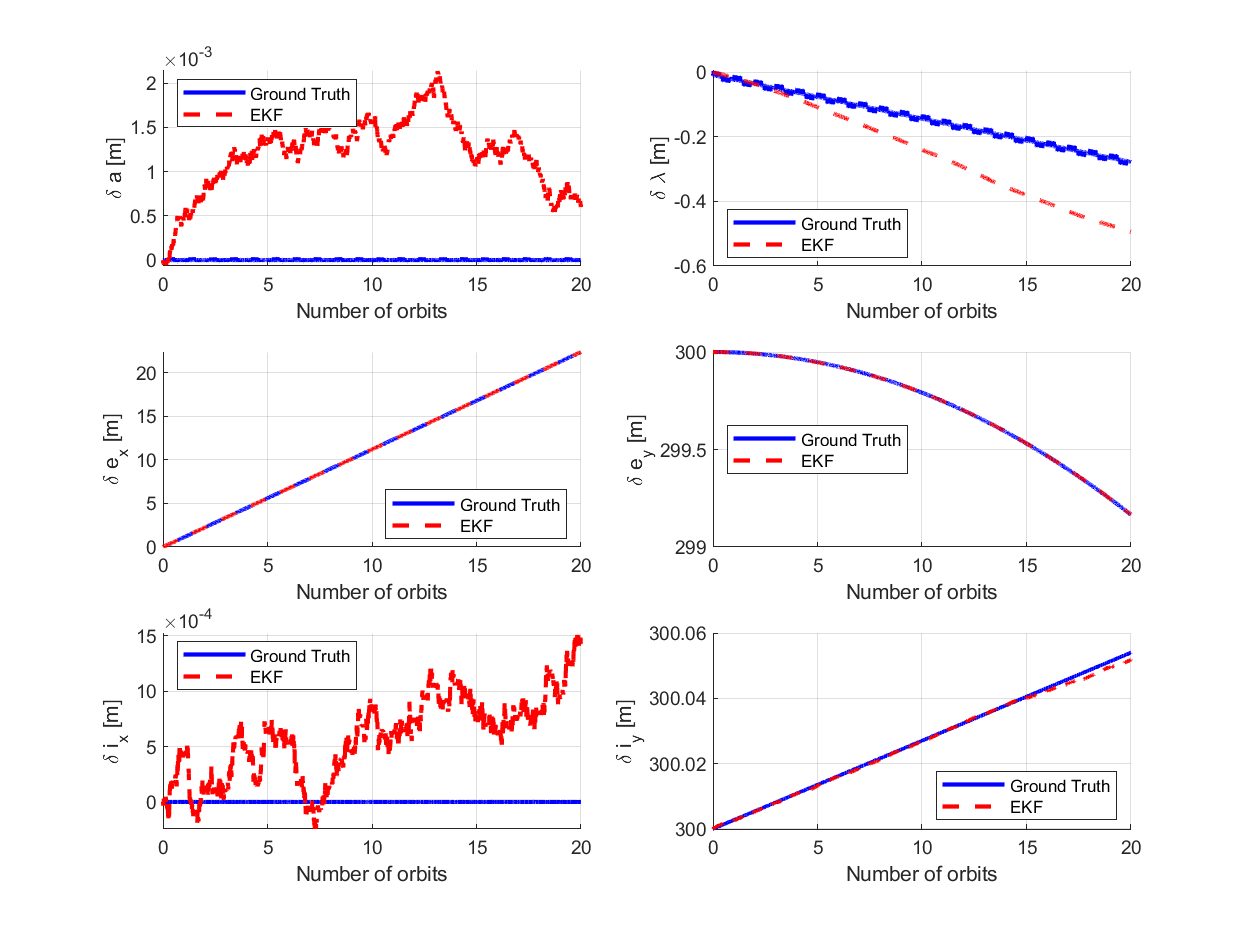
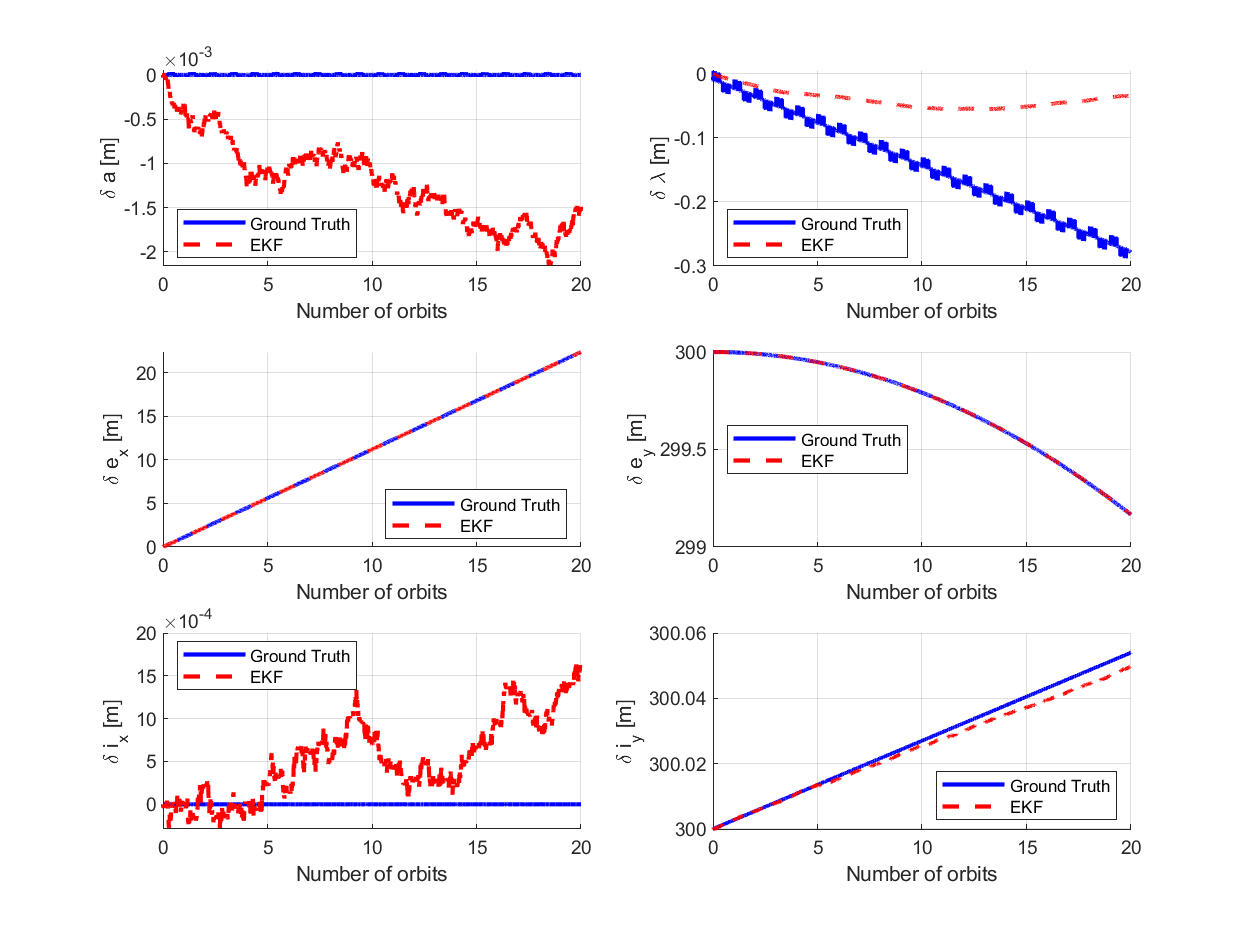
updates

diff --git a/sim/EKF_continuous_no_control.m b/sim/EKF_continuous_no_control.m
@@ -129,9 +129,9 @@ function EKF_continuous_no_control(SV1_OE_init, SV2_ROE_init, SV3_ROE_init, SV2_
     %estimate_sigma(2,2) = 1e2; 
     estimate_noise = sqrtm(estimate_sigma)*randn(6,1);
     x_EKF_SV3_all(1,:) = SV3_ROE_init; % + estimate_noise';
-    P_EKF_SV3_all(1,:,:) = estimate_sigma;
+    P_EKF_SV3_all(1,:,:) = 100*estimate_sigma;
     x_EKF_SV2_all(1,:) = SV2_ROE_init; % + estimate_noise';
-    P_EKF_SV2_all(1,:,:) = estimate_sigma;
+    P_EKF_SV2_all(1,:,:) = 100*estimate_sigma;
 
     x_update_EKF_SV2 = x_EKF_SV2_all(1,:)';
     P_update_EKF_SV2 = squeeze(P_EKF_SV2_all(1,:,:));
@@ -164,19 +164,20 @@ function EKF_continuous_no_control(SV1_OE_init, SV2_ROE_init, SV3_ROE_init, SV2_
     y_pred_EKF_SV3_all(1,:) = y_actual_EKF_SV3_all(1,:);
 
     % Process and measurement noise covariances
-    Q = 0.1* estimate_sigma; % similar to P_0 but much smaller
+    Q = 10* estimate_sigma; % similar to P_0 but much smaller
     %Q(1,1) = 1e4;
     %Q(2,2) = 1e3;
     %Q(5,5) = 1e1;
     %Q(6,6) = 1e1;
 
     % R assumes there is less noise than there actually is.
-    R = blkdiag(RTN_sigma, ECI_sigma); % diagonal matrix with elements equal to the varianace of each measurement
+    R = 0.1 *blkdiag(RTN_sigma, ECI_sigma); % diagonal matrix with elements equal to the varianace of each measurement
 
     for i=2:n_steps
         t = full_times(i-1);
 
-        % Use GVE propagated for ground truth ECI positions
+        % Use GVE propagated for ground truth qns OE, then convert to
+        % ground truth ECI positions
         SV1_OE_state_inter = SV1_OE_state + (dt*secular_J2(t, SV1_OE_state))'; % propagate chief qns OE using GVE
         SV1_OE_state = wrap_QNSOE(SV1_OE_state_inter); % wraps u to be within 0-360
         SV2_OE_state_inter = SV2_OE_state + (dt*secular_J2(t, SV2_OE_state))'; % propagate SV2 qns OE using GVE (take out later)
